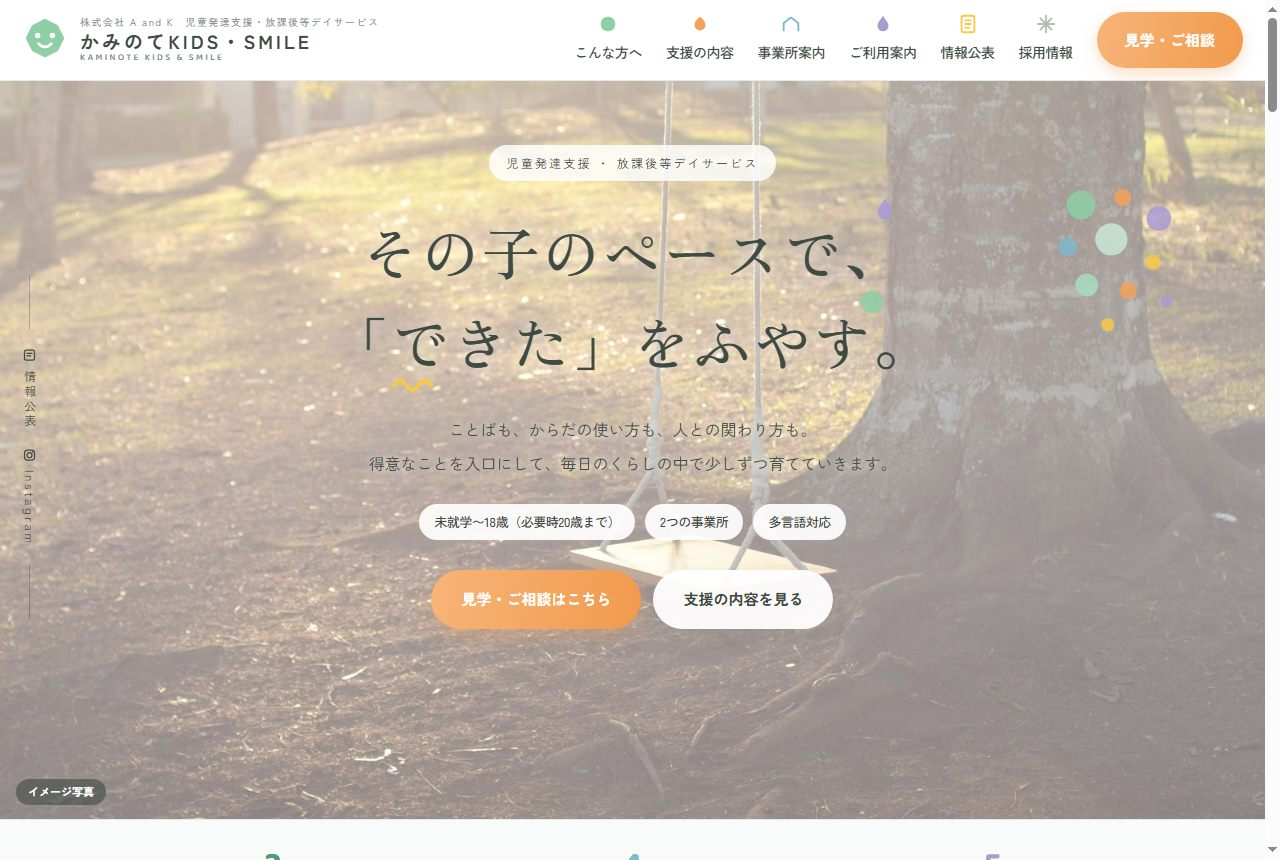
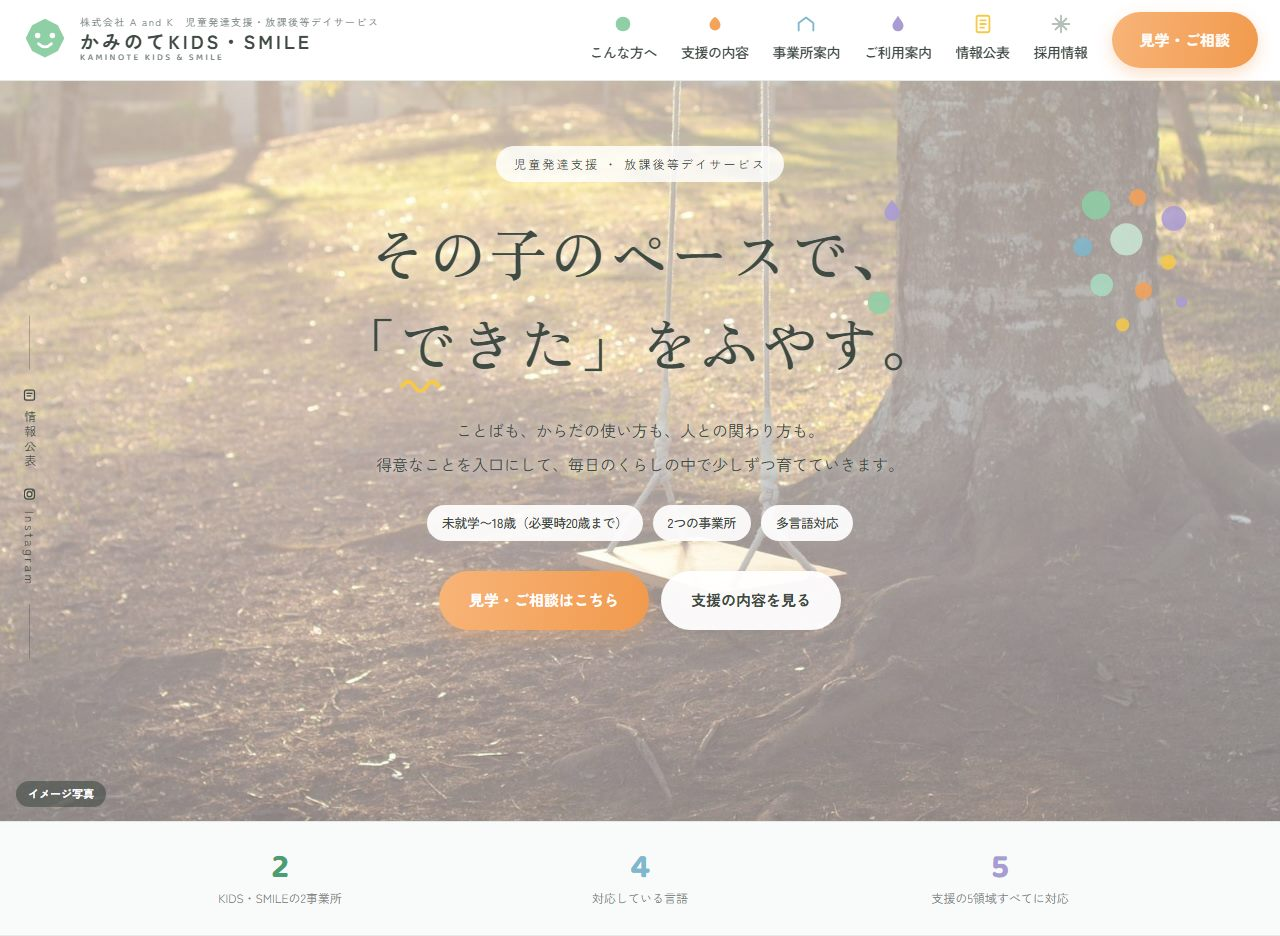
キャプチャ画像を撮り直し、スクロールバーと中途半端な切れをなくす
6枚（保育園3案・放課後等デイ3案）とも撮り直した。

・ブラウザのスクロールバーが右端に写り込んでいたので --hide-scrollbars で
  消した。あわせて本文が使える幅も1265→1280pxになっている
・下端がセクションの途中で切れていたので、切れ目で終わるようにした。
  案A・案Bはヒーロー直後の数字の帯の下端まで、案Bより背の高い案Aは
  そのぶん高い。案Cはヒーローが画面高さいっぱいの作りなので、
  ヒーロー（下端のくの字）でちょうど終わる高さで撮っている

その結果キャプチャの実寸が案ごとに変わったので、img の height 属性も
実寸に合わせた。ここを1280x860のままにすると、読み込み前に確保される
高さがずれて表示時にがたつく。

説明文には手を入れていない。

diff --git a/design.html b/design.html
@@ -574,7 +574,7 @@
           <span class="mock-tone">写真を主役に</span>
         </div>
         <a class="shot" href="https://k-matsumoto527.github.io/kaminote-design/plan-a.html" target="_blank" rel="noopener">
-          <img src="img/preview-a.jpg" alt="保育園サイト トップページ デザイン案A" width="1280" height="860" loading="lazy">
+          <img src="img/preview-a.jpg" alt="保育園サイト トップページ デザイン案A" width="1280" height="956" loading="lazy">
         </a>
         <p class="mock-note">ご参考にいただいた画面イメージに、いちばん近い案です。白いヘッダーにアイコン付きのメニューを並べ、その下の大きな写真に明朝体の見出しを重ねました。文字のまわりに小さな色の飾りを散らし、園の楽しい雰囲気を出しています。<strong>いただいたイメージのまま進めたい</strong>場合はこの案です。</p>
         <a class="open-btn" href="https://k-matsumoto527.github.io/kaminote-design/plan-a.html" target="_blank" rel="noopener">実物を見る</a>
@@ -587,7 +587,7 @@
           <span class="mock-tone">やわらかい曲線</span>
         </div>
         <a class="shot" href="https://k-matsumoto527.github.io/kaminote-design/plan-b.html" target="_blank" rel="noopener">
-          <img src="img/preview-b.jpg" alt="保育園サイト トップページ デザイン案B" width="1280" height="860" loading="lazy">
+          <img src="img/preview-b.jpg" alt="保育園サイト トップページ デザイン案B" width="1280" height="854" loading="lazy">
         </a>
         <p class="mock-note">写真をまるく切り抜き、区切りを波線にした案です。丸みのある書体と若草色で、<strong>3案のなかでいちばん親しみやすい</strong>印象になります。はじめてご覧になる保護者の方に、やさしい第一印象を持ってもらいたい場合に向いています。</p>
         <a class="open-btn" href="https://k-matsumoto527.github.io/kaminote-design/plan-b.html" target="_blank" rel="noopener">実物を見る</a>
@@ -600,7 +600,7 @@
           <span class="mock-tone">縦書きと全画面写真</span>
         </div>
         <a class="shot" href="https://k-matsumoto527.github.io/kaminote-design/plan-c.html" target="_blank" rel="noopener">
-          <img src="img/preview-c.jpg" alt="保育園サイト トップページ デザイン案C" width="1280" height="860" loading="lazy">
+          <img src="img/preview-c.jpg" alt="保育園サイト トップページ デザイン案C" width="1280" height="881" loading="lazy">
         </a>
         <p class="mock-note">白いヘッダーを置かず、開いた瞬間は<strong>写真だけが画面いっぱい</strong>に広がる案です。園名を中央に、メニューを左右に振り分けて写真の上に浮かせ、園の言葉は<strong>縦書き</strong>で置きました。3案のなかでいちばん写真が大きく出て、落ち着いた雰囲気になります。そのぶん、よいお写真がそろっているかで印象が変わる案でもあります。</p>
         <a class="open-btn" href="https://k-matsumoto527.github.io/kaminote-design/plan-c.html" target="_blank" rel="noopener">実物を見る</a>
@@ -621,7 +621,7 @@
           <span class="mock-tone">写真を主役に</span>
         </div>
         <a class="shot" href="https://k-matsumoto527.github.io/kaminote-day-design/plan-a.html" target="_blank" rel="noopener">
-          <img src="img/preview-day-a.jpg" alt="放課後等デイサイト トップページ デザイン案A" width="1280" height="860" loading="lazy">
+          <img src="img/preview-day-a.jpg" alt="放課後等デイサイト トップページ デザイン案A" width="1280" height="936" loading="lazy">
         </a>
         <p class="mock-note">白いヘッダーにアイコン付きのメニューを並べ、その下の大きな写真に明朝体の見出しを重ねました。空の広い写真を選び、その上に文字が乗るようにしています。保育園サイトの案Aと対になる作りです。</p>
         <a class="open-btn" href="https://k-matsumoto527.github.io/kaminote-day-design/plan-a.html" target="_blank" rel="noopener">実物を見る</a>
@@ -634,7 +634,7 @@
           <span class="mock-tone">やわらかい曲線</span>
         </div>
         <a class="shot" href="https://k-matsumoto527.github.io/kaminote-day-design/plan-b.html" target="_blank" rel="noopener">
-          <img src="img/preview-day-b.jpg" alt="放課後等デイサイト トップページ デザイン案B" width="1280" height="860" loading="lazy">
+          <img src="img/preview-day-b.jpg" alt="放課後等デイサイト トップページ デザイン案B" width="1280" height="847" loading="lazy">
         </a>
         <p class="mock-note">写真をまるく切り抜き、区切りを波線にした案です。丸みのある書体で、<strong>3案のなかでいちばん親しみやすい</strong>印象になります。まるく切り抜くので、手元のようすを写した近い写真がよく合います。はじめてご覧になる保護者の方に、やさしい第一印象を持ってもらいたい場合に向いています。</p>
         <a class="open-btn" href="https://k-matsumoto527.github.io/kaminote-day-design/plan-b.html" target="_blank" rel="noopener">実物を見る</a>

diff --git a/src/design-kaminote.html b/src/design-kaminote.html
@@ -551,7 +551,7 @@
           <span class="mock-tone">写真を主役に</span>
         </div>
         <a class="shot" href="https://k-matsumoto527.github.io/kaminote-design/plan-a.html" target="_blank" rel="noopener">
-          <img src="img/preview-a.jpg" alt="保育園サイト トップページ デザイン案A" width="1280" height="860" loading="lazy">
+          <img src="img/preview-a.jpg" alt="保育園サイト トップページ デザイン案A" width="1280" height="956" loading="lazy">
         </a>
         <p class="mock-note">ご参考にいただいた画面イメージに、いちばん近い案です。白いヘッダーにアイコン付きのメニューを並べ、その下の大きな写真に明朝体の見出しを重ねました。文字のまわりに小さな色の飾りを散らし、園の楽しい雰囲気を出しています。<strong>いただいたイメージのまま進めたい</strong>場合はこの案です。</p>
         <a class="open-btn" href="https://k-matsumoto527.github.io/kaminote-design/plan-a.html" target="_blank" rel="noopener">実物を見る</a>
@@ -564,7 +564,7 @@
           <span class="mock-tone">やわらかい曲線</span>
         </div>
         <a class="shot" href="https://k-matsumoto527.github.io/kaminote-design/plan-b.html" target="_blank" rel="noopener">
-          <img src="img/preview-b.jpg" alt="保育園サイト トップページ デザイン案B" width="1280" height="860" loading="lazy">
+          <img src="img/preview-b.jpg" alt="保育園サイト トップページ デザイン案B" width="1280" height="854" loading="lazy">
         </a>
         <p class="mock-note">写真をまるく切り抜き、区切りを波線にした案です。丸みのある書体と若草色で、<strong>3案のなかでいちばん親しみやすい</strong>印象になります。はじめてご覧になる保護者の方に、やさしい第一印象を持ってもらいたい場合に向いています。</p>
         <a class="open-btn" href="https://k-matsumoto527.github.io/kaminote-design/plan-b.html" target="_blank" rel="noopener">実物を見る</a>
@@ -577,7 +577,7 @@
           <span class="mock-tone">縦書きと全画面写真</span>
         </div>
         <a class="shot" href="https://k-matsumoto527.github.io/kaminote-design/plan-c.html" target="_blank" rel="noopener">
-          <img src="img/preview-c.jpg" alt="保育園サイト トップページ デザイン案C" width="1280" height="860" loading="lazy">
+          <img src="img/preview-c.jpg" alt="保育園サイト トップページ デザイン案C" width="1280" height="881" loading="lazy">
         </a>
         <p class="mock-note">白いヘッダーを置かず、開いた瞬間は<strong>写真だけが画面いっぱい</strong>に広がる案です。園名を中央に、メニューを左右に振り分けて写真の上に浮かせ、園の言葉は<strong>縦書き</strong>で置きました。3案のなかでいちばん写真が大きく出て、落ち着いた雰囲気になります。そのぶん、よいお写真がそろっているかで印象が変わる案でもあります。</p>
         <a class="open-btn" href="https://k-matsumoto527.github.io/kaminote-design/plan-c.html" target="_blank" rel="noopener">実物を見る</a>
@@ -598,7 +598,7 @@
           <span class="mock-tone">写真を主役に</span>
         </div>
         <a class="shot" href="https://k-matsumoto527.github.io/kaminote-day-design/plan-a.html" target="_blank" rel="noopener">
-          <img src="img/preview-day-a.jpg" alt="放課後等デイサイト トップページ デザイン案A" width="1280" height="860" loading="lazy">
+          <img src="img/preview-day-a.jpg" alt="放課後等デイサイト トップページ デザイン案A" width="1280" height="936" loading="lazy">
         </a>
         <p class="mock-note">白いヘッダーにアイコン付きのメニューを並べ、その下の大きな写真に明朝体の見出しを重ねました。空の広い写真を選び、その上に文字が乗るようにしています。保育園サイトの案Aと対になる作りです。</p>
         <a class="open-btn" href="https://k-matsumoto527.github.io/kaminote-day-design/plan-a.html" target="_blank" rel="noopener">実物を見る</a>
@@ -611,7 +611,7 @@
           <span class="mock-tone">やわらかい曲線</span>
         </div>
         <a class="shot" href="https://k-matsumoto527.github.io/kaminote-day-design/plan-b.html" target="_blank" rel="noopener">
-          <img src="img/preview-day-b.jpg" alt="放課後等デイサイト トップページ デザイン案B" width="1280" height="860" loading="lazy">
+          <img src="img/preview-day-b.jpg" alt="放課後等デイサイト トップページ デザイン案B" width="1280" height="847" loading="lazy">
         </a>
         <p class="mock-note">写真をまるく切り抜き、区切りを波線にした案です。丸みのある書体で、<strong>3案のなかでいちばん親しみやすい</strong>印象になります。まるく切り抜くので、手元のようすを写した近い写真がよく合います。はじめてご覧になる保護者の方に、やさしい第一印象を持ってもらいたい場合に向いています。</p>
         <a class="open-btn" href="https://k-matsumoto527.github.io/kaminote-day-design/plan-b.html" target="_blank" rel="noopener">実物を見る</a>
